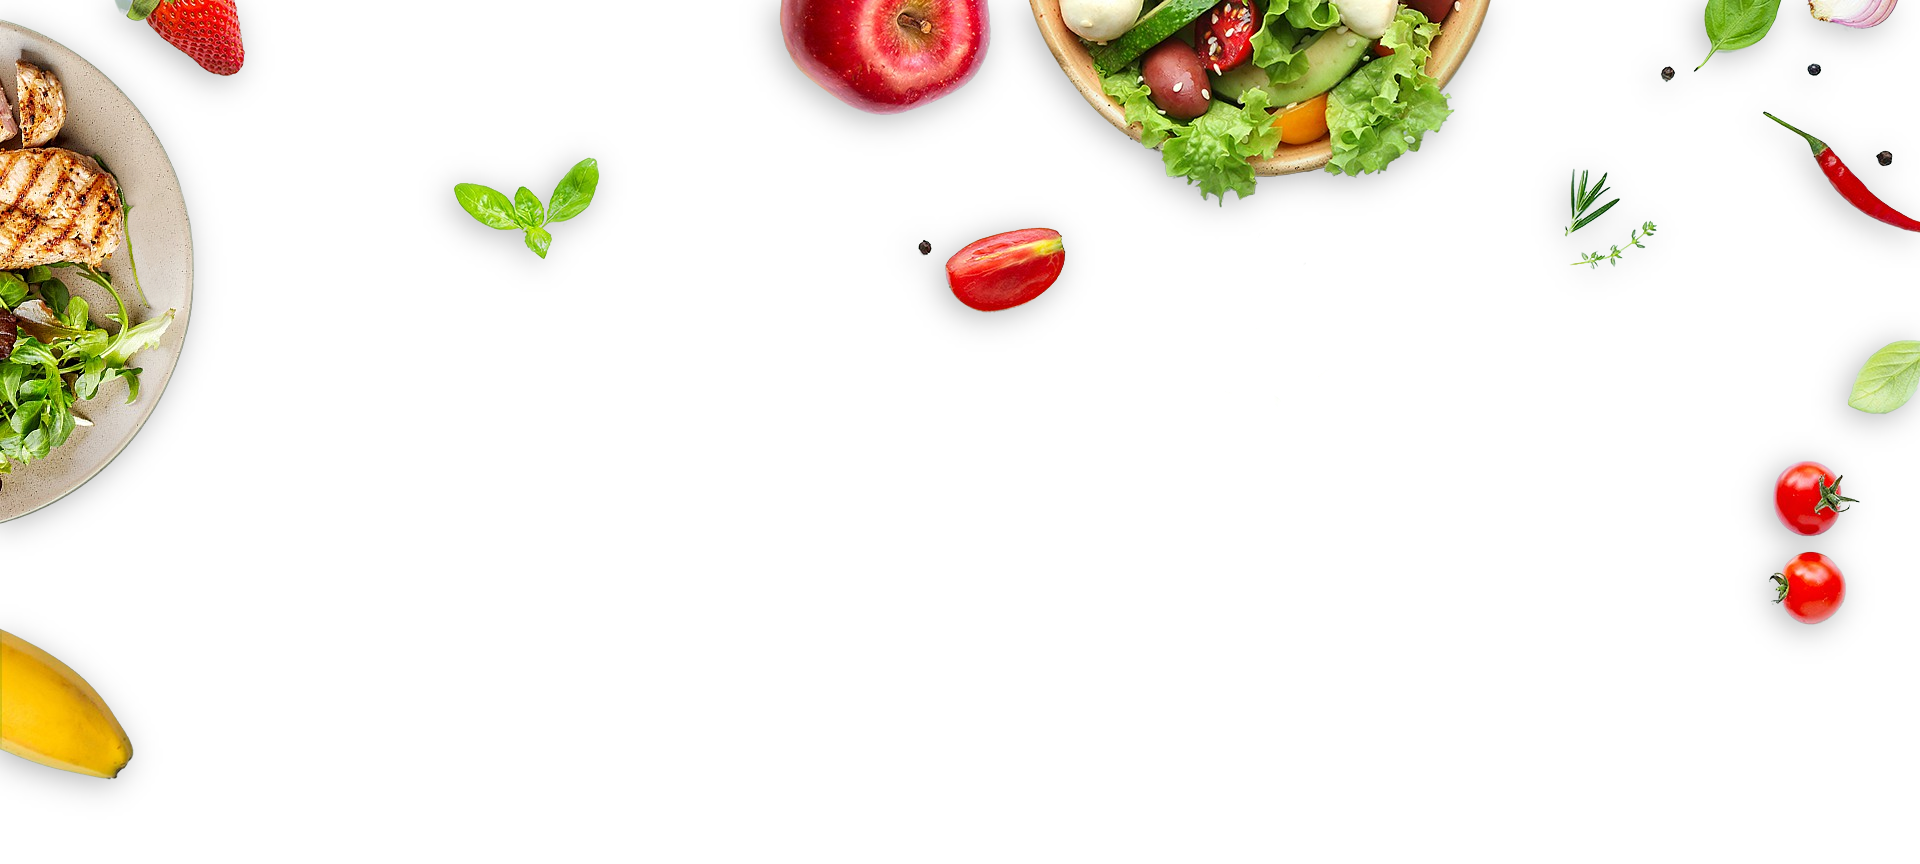
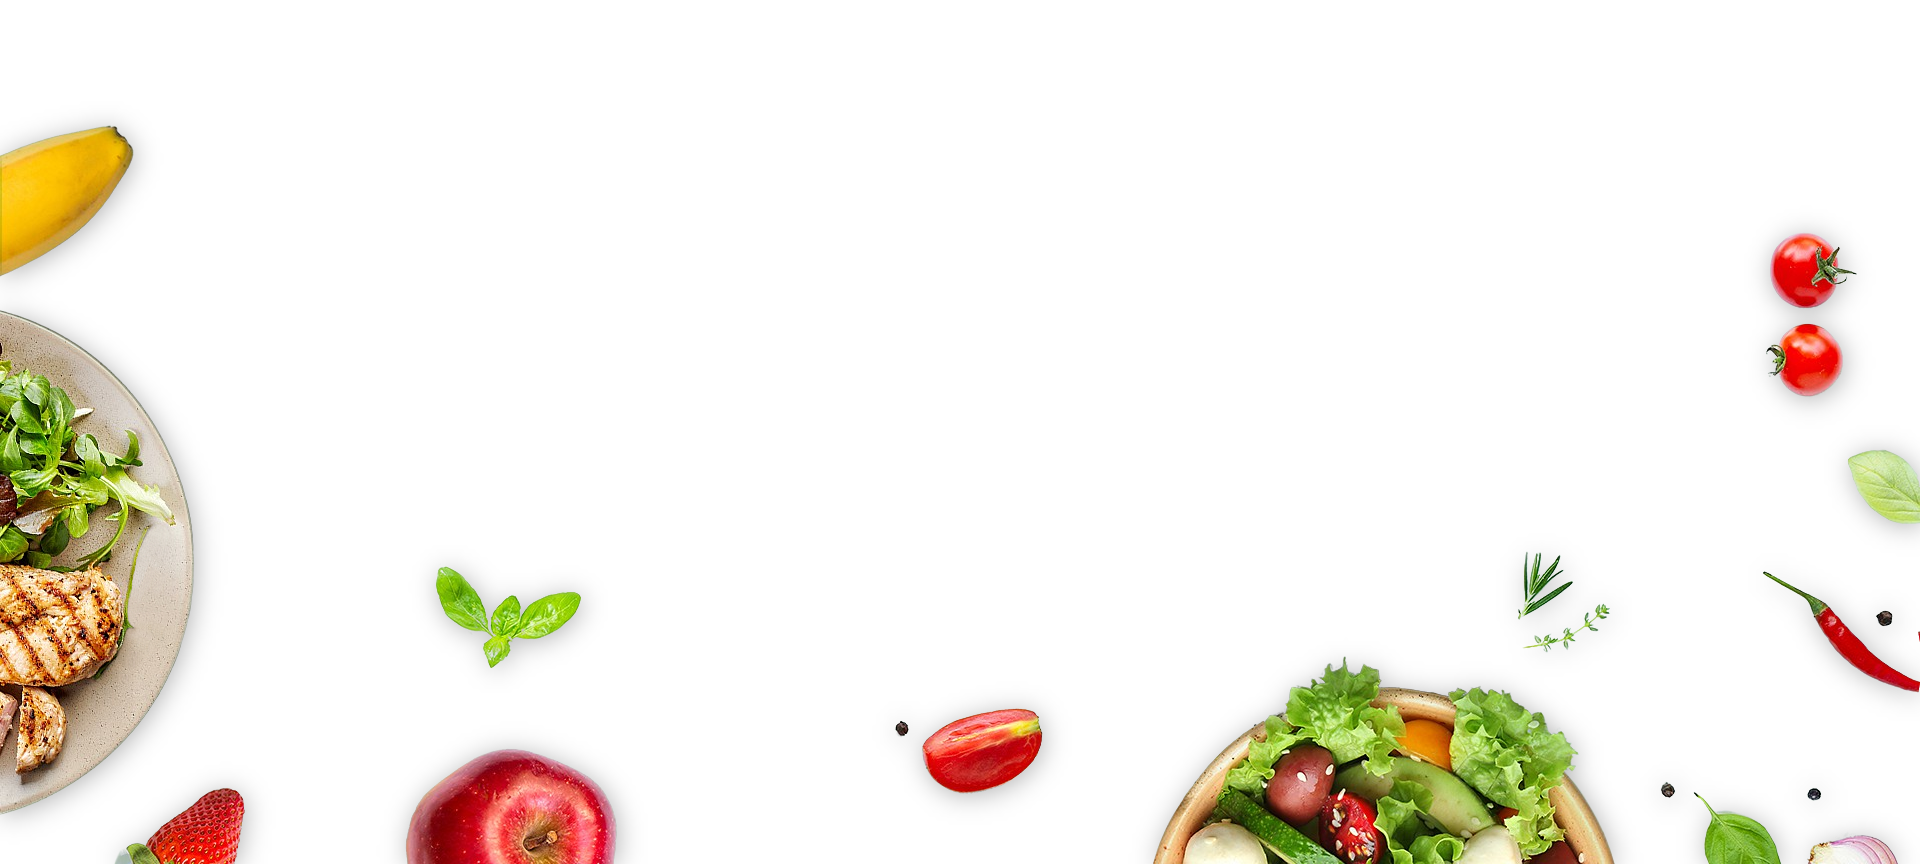
login component finished

diff --git a/src/components/LogIn.js b/src/components/LogIn.js
@@ -1,4 +1,5 @@
 import React from 'react';
+import { Link } from 'react-router-dom';
 //international phone codes
 const countryTelData = require('country-telephone-data');
 
@@ -50,7 +51,7 @@ class LogIn extends React.Component {
             <select
               value={this.state.value}
               onChange={this.handleChange}
-              className=" w-full border-solid border border-gray-400 rounded-md h-12 px-2 mb-3"
+              className=" bg-white w-full border-solid border border-gray-400 rounded-md h-12 px-2 mb-3"
               id="countries"
             >
               {options}
@@ -59,7 +60,7 @@ class LogIn extends React.Component {
               Número de teléfono
             </label>
             <input
-              className="block w-full border-solid border border-gray-400 rounded-md h-12 px-2 mb-3 placeholder-gray-600"
+              className="bg-white block w-full border-solid border border-gray-400 rounded-md h-12 px-2 mb-3 placeholder-gray-600"
               type="text"
               id="phone"
               placeholder="Número de teléfono"
@@ -74,8 +75,15 @@ class LogIn extends React.Component {
             <input
               type="submit"
               value="Continúa"
-              className="w-full submit-btn py-3 font-semibold text-white rounded-lg"
+              className="w-full submit-btn py-3 font-bold text-white rounded-lg mb-3"
             />
+
+            <p className="text-xs">
+              No tienes una cuenta?
+              <Link>
+                <strong className="underline ml-1">Regístrate</strong>
+              </Link>
+            </p>
           </form>
         </article>
       </main>

diff --git a/src/components/NavBar.js b/src/components/NavBar.js
@@ -25,7 +25,9 @@ function NavBar() {
         >
           <path d="M13.5 22.1c1.8-7.2 6.3-10.8 13.5-10.8 10.8 0 12.15 8.1 17.55 9.45 3.6.9 6.75-.45 9.45-4.05-1.8 7.2-6.3 10.8-13.5 10.8-10.8 0-12.15-8.1-17.55-9.45-3.6-.9-6.75.45-9.45 4.05zM0 38.3c1.8-7.2 6.3-10.8 13.5-10.8 10.8 0 12.15 8.1 17.55 9.45 3.6.9 6.75-.45 9.45-4.05-1.8 7.2-6.3 10.8-13.5 10.8-10.8 0-12.15-8.1-17.55-9.45-3.6-.9-6.75.45-9.45 4.05z" />
         </svg>
-        <span className="font-semibold text-xl tracking-tight">RAPPIdos</span>
+        <NavLink to="/" className="font-semibold text-xl tracking-tight">
+          RAPPIdos
+        </NavLink>
       </div>
       <div className="block lg:hidden">
         <button

diff --git a/src/assets/css/myStyles.css b/src/assets/css/myStyles.css
@@ -22,7 +22,8 @@ body {
 }
 
 .food-back {
-  background-image: url("../images/food-back-flip.png");
+  min-height: 25em;
+  background-image: url("../images/food-back.png");
 }
 
 .submit-btn {

diff --git a/src/assets/css/myStyles.scss b/src/assets/css/myStyles.scss
@@ -30,7 +30,8 @@ body {
 }
 
 .food-back {
-  background-image: url('../images/food-back-flip.png');
+  min-height: 25em;
+  background-image: url('../images/food-back.png');
 }
 
 .submit-btn {
